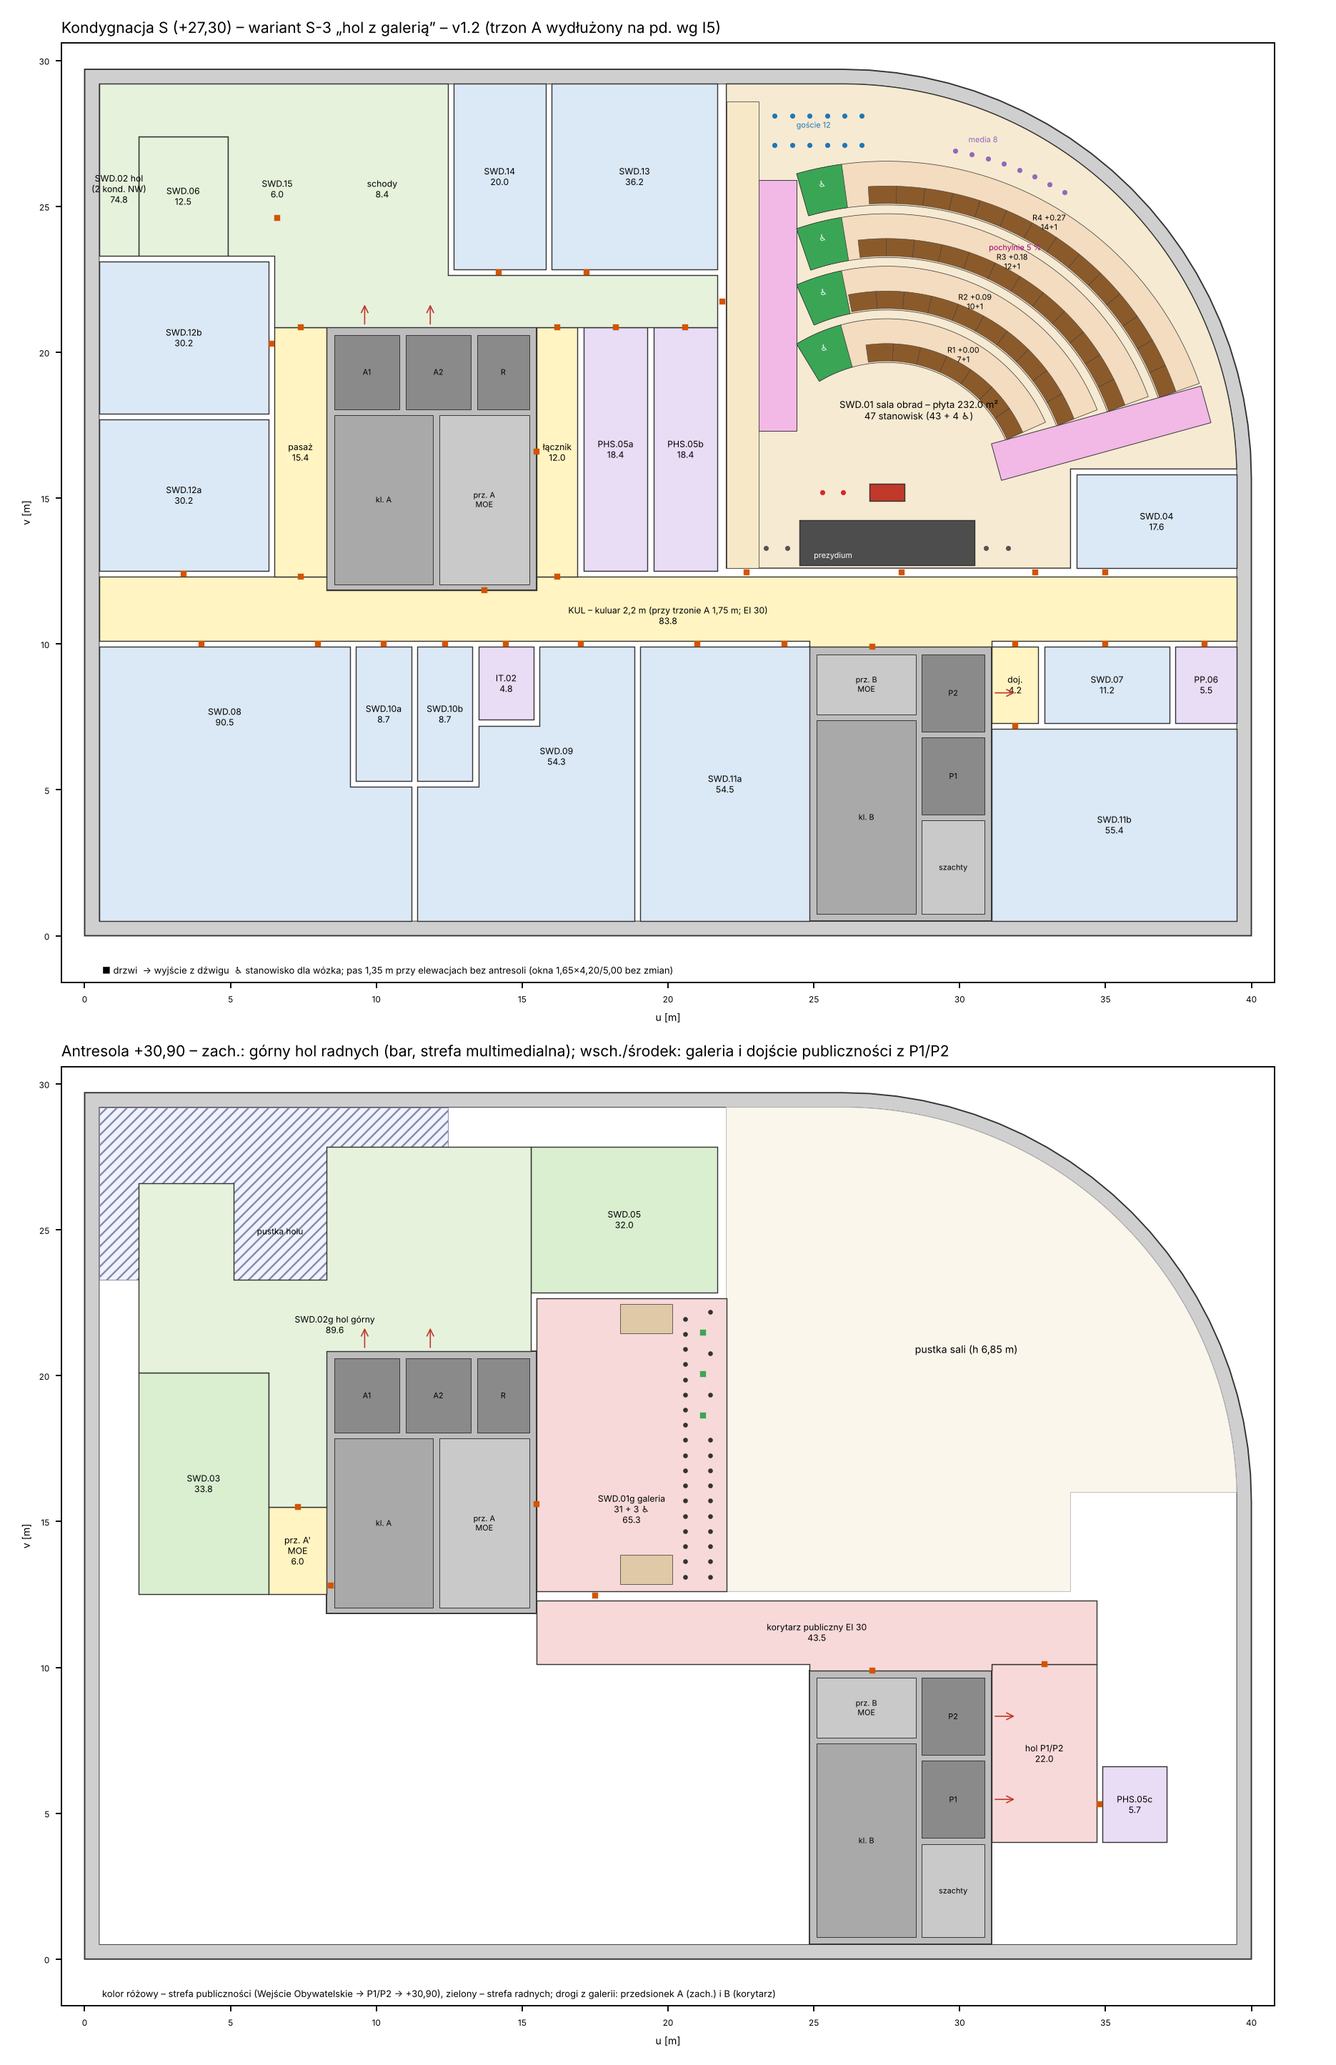
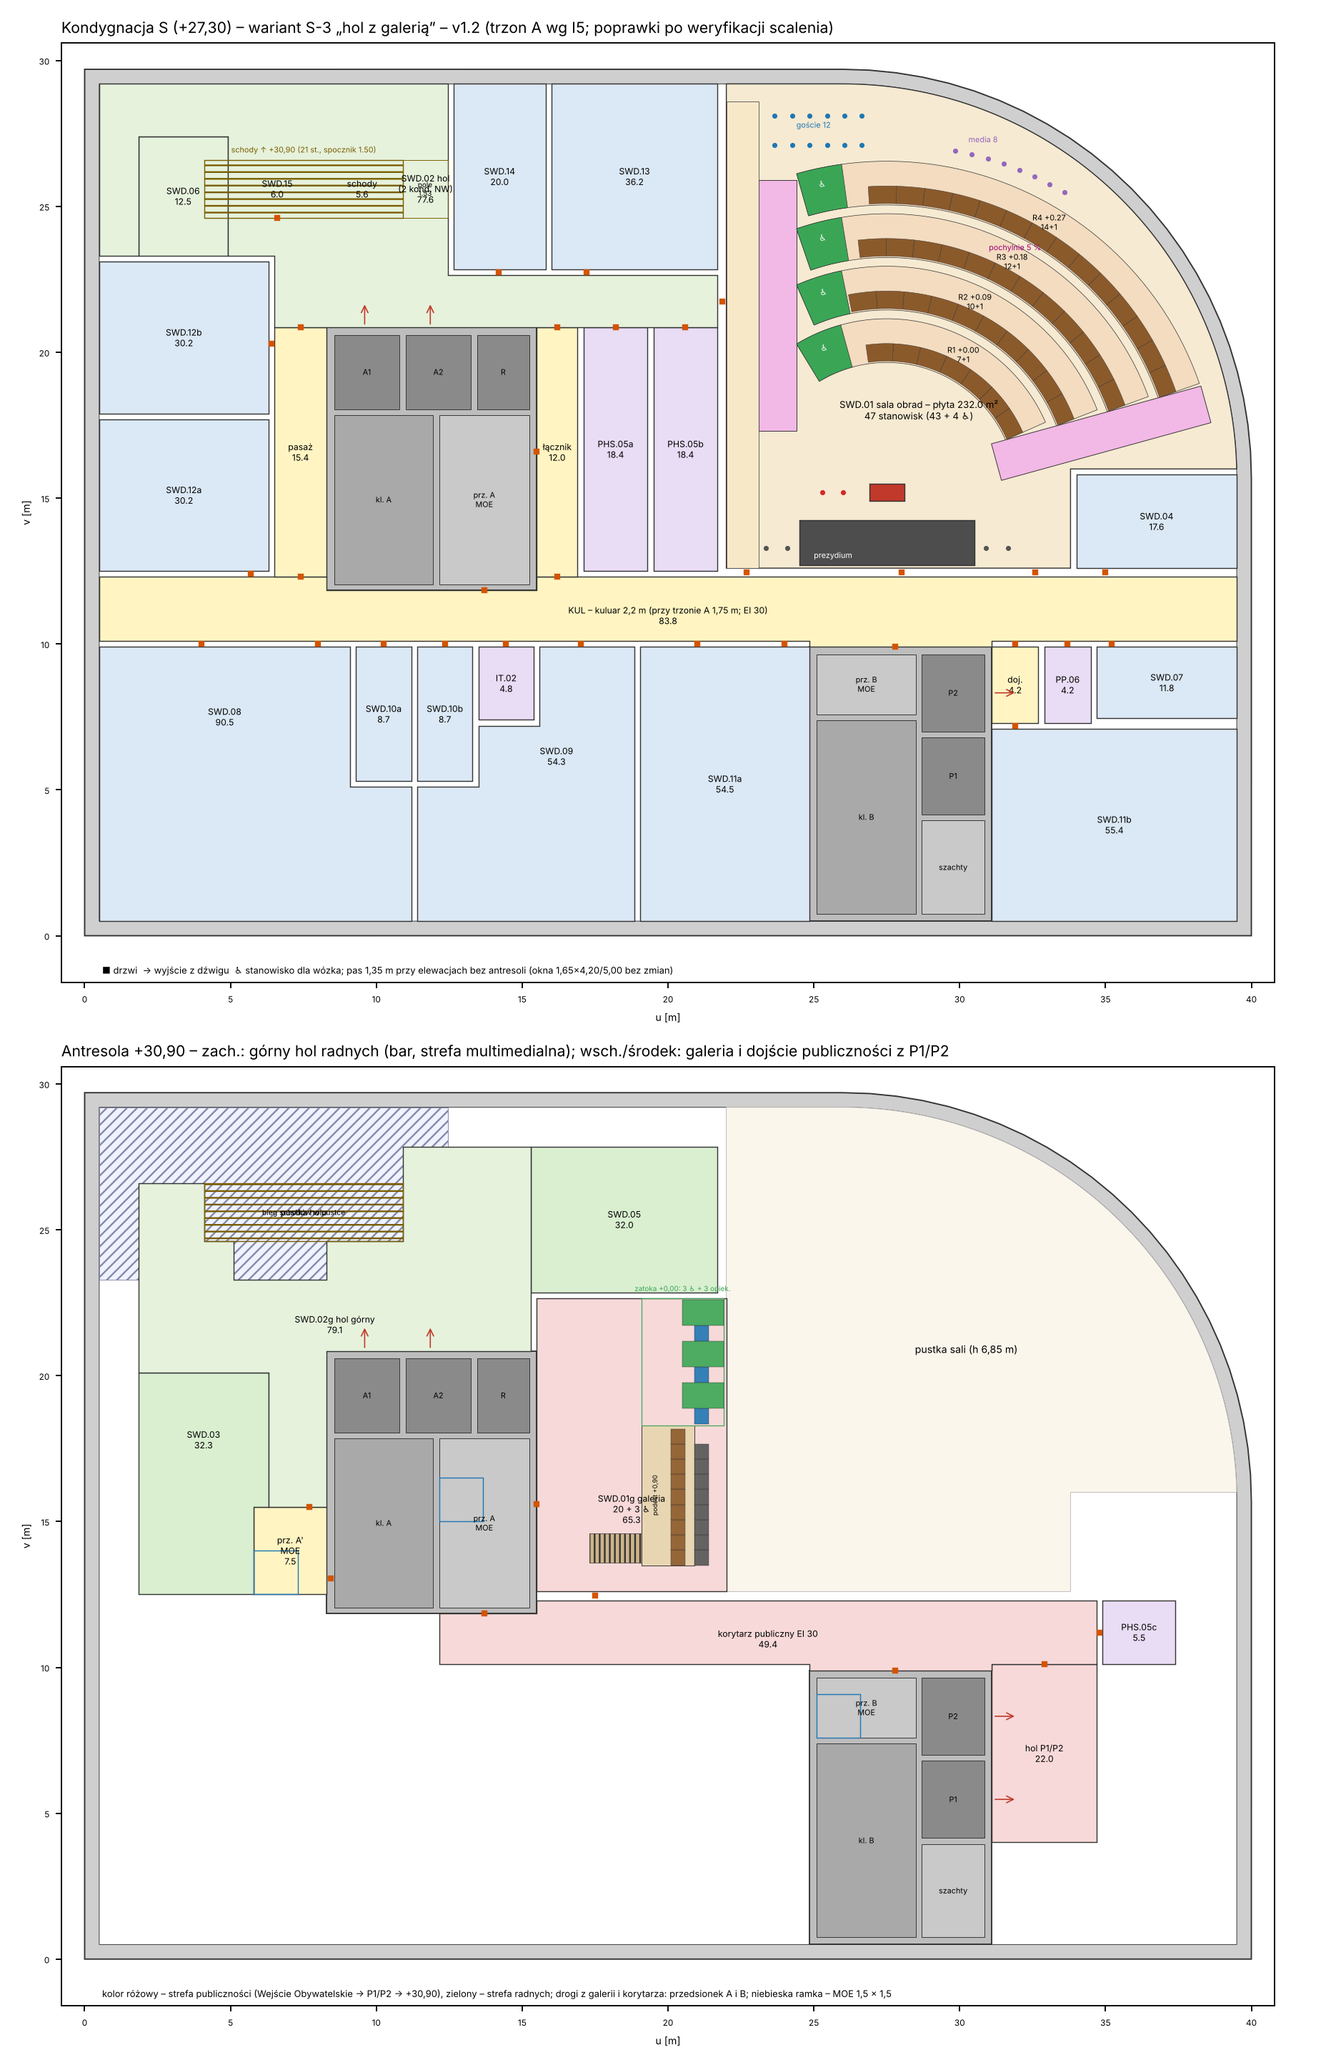
3D stage-2 tests (W1–W6, W9, W10), Citizens' Hall module; hall-axis plan defect logged for v1.2
Claude-Session: https://claude.ai/code/session_01ULAuXU15ZK9PB4XdqzfV5P

diff --git a/umwd/docs/20_koncepcja/_s2_rzut.py b/umwd/docs/20_koncepcja/_s2_rzut.py
@@ -16,6 +16,7 @@ import matplotlib  # noqa: E402
 matplotlib.use("Agg")
 import matplotlib.pyplot as plt  # noqa: E402
 from matplotlib.patches import Polygon as MPoly  # noqa: E402
+from shapely.geometry import box as box_  # noqa: E402
 
 IMG = os.path.join(os.path.dirname(os.path.abspath(__file__)), "img")
 os.makedirs(IMG, exist_ok=True)
@@ -69,7 +70,7 @@ def base(ax, title):
 
 fig, axs = plt.subplots(2, 1, figsize=(11.0, 17.0))
 ax = axs[0]
-base(ax, "Kondygnacja S (+27,30) – wariant S-3 „hol z galerią” – v1.2 (trzon A wydłużony na pd. wg I5)")
+base(ax, "Kondygnacja S (+27,30) – wariant S-3 „hol z galerią” – v1.2 (trzon A wg I5; poprawki po weryfikacji scalenia)")
 for k, g in S.items():
     draw(ax, g, COL[cat(k)], z=4)
     if k == "SWD.01":
@@ -106,6 +107,11 @@ for lift, pt, d, levels in M.LIFT_DOORS:
     if any(l.startswith("S") for l in levels):
         ax.annotate("", xy=(pt[0] + d[0] * 0.9, pt[1] + d[1] * 0.9), xytext=pt,
                     arrowprops=dict(arrowstyle="->", lw=0.7, color="#c0392b"), zorder=12)
+draw(ax, M.STAIR, "none", ec="#7a5c00", lw=0.6, z=7, hatch="---")          # cały bieg schodów (górny bieg nad szatnią)
+ax.text(sum(M.STAIR.bounds[0::2]) / 2, M.STAIR_V[1] + 0.25, f"schody ↑ +30,90 ({sum(M.STAIR_STEPS)} st., spocznik {M.STAIR_LAND:.2f})",
+        fontsize=4.6, ha="center", zorder=12, color="#7a5c00")
+draw(ax, box_(M.STAIR_FOOT_U, M.STAIR_V[0], M.HALL_E_WALL_U, M.STAIR_V[1]), "none", ec="#7a5c00", lw=0.4, z=7)
+ax.text(M.STAIR_FOOT_U + 0.75, sum(M.STAIR_V) / 2, f"pole\n{M.HALL_E_WALL_U - M.STAIR_FOOT_U:.2f}", fontsize=4.2, ha="center", va="center", zorder=12)
 ax.text(0.6, -1.3, "■ drzwi  → wyjście z dźwigu  ♿ stanowisko dla wózka; pas 1,35 m przy elewacjach bez antresoli (okna 1,65×4,20/5,00 bez zmian)",
         fontsize=5.5)
 
@@ -118,21 +124,33 @@ label(ax, S["SWD.01"], "pustka sali (h 6,85 m)", fs=6)
 for k, g in A.items():
     draw(ax, g, COL[cat(k)], z=5)
     nm = {"KW.A.01": "hol P1/P2", "KW.A.02": "korytarz publiczny EI 30", "KW.A.03": "prz. A'\nMOE",
-          "SWD.01g": "SWD.01g galeria\n31 + 3 ♿", "SWD.02g": "SWD.02g hol górny"}.get(k, k)
+          "SWD.01g": f"SWD.01g galeria\n{M.GAL_SEATS_N} + {M.GAL_WC_N} ♿", "SWD.02g": "SWD.02g hol górny"}.get(k, k)
     label(ax, g, f"{nm}\n{g.area:.1f}", dy=(-2.2 if k == "SWD.01g" else 0))
-for (u, v, h, t) in M.gallery_seats():
-    ax.plot(u, v, "s" if t == "wozek" else "o", ms=2.6 if t == "wozek" else 1.8,
-            color="#3aa655" if t == "wozek" else "#333", zorder=12)
+GLy = M.gallery_layout()
+draw(ax, M.GAL_PODEST, "#e8d6b3", lw=0.4, z=6)
+ax.text(M.GAL_PODEST.bounds[0] + 0.45, sum(M.GAL_PODEST.bounds[1::2]) / 2, "podest +0,90", fontsize=3.8, rotation=90,
+        ha="center", va="center", zorder=12)
 for g in M.GAL_STEPS:
-    draw(ax, g, "#e0c9a6", lw=0.3, z=6)
+    draw(ax, g, "#cdb38a", lw=0.3, z=6, hatch="||||")
+draw(ax, M.GAL_BAY, "none", ec="#3aa655", lw=0.5, z=7)
+for t, col in (("rzad1", "#555"), ("rzad2", "#8b5a2b"), ("opiekun", "#1f77b4"), ("wozek", "#3aa655")):
+    for (u, v, h, rect) in GLy[t]:
+        draw(ax, rect, col, lw=0.2, z=8, alpha=0.9)
+ax.text(20.5, 22.9, f"zatoka +0,00: {M.GAL_WC_N} ♿ + {M.GAL_COUNTS['opiekun']} opiek.", fontsize=4.2, ha="center", color="#3aa655", zorder=12)
+draw(ax, M.STAIR, "none", ec="#7a5c00", lw=0.6, z=7, hatch="---")
+ax.text(sum(M.STAIR.bounds[0::2]) / 2, sum(M.STAIR_V) / 2, "bieg schodów w pustce", fontsize=4.4, ha="center", va="center", zorder=12)
 for a_, b_, (u, v), w in M.DOORS_ANT:
     ax.plot(u, v, "s", ms=2.2, color="#d35400", zorder=12)
 for lift, pt, d, levels in M.LIFT_DOORS:
     if "ANT" in levels:
         ax.annotate("", xy=(pt[0] + d[0] * 0.9, pt[1] + d[1] * 0.9), xytext=pt,
                     arrowprops=dict(arrowstyle="->", lw=0.7, color="#c0392b"), zorder=12)
+for nm, (room, din, dout) in M.przedsionki().items():
+    r = M.moe_search(room, din, dout)
+    if r and "+30,90" in nm:
+        draw(ax, r["moe"], "none", ec="#1f77b4", lw=0.6, z=9)
 ax.text(0.6, -1.3, "kolor różowy – strefa publiczności (Wejście Obywatelskie → P1/P2 → +30,90), zielony – strefa radnych;"
-        " drogi z galerii: przedsionek A (zach.) i B (korytarz)", fontsize=5.5)
+        " drogi z galerii i korytarza: przedsionek A i B; niebieska ramka – MOE 1,5 × 1,5", fontsize=5.5)
 plt.tight_layout()
 out = os.path.join(IMG, "s2_plan.png")
 plt.savefig(out, dpi=170)
@@ -142,7 +160,7 @@ print("Zapisano", os.path.relpath(out, M.ROOT))
 # Przekrój w płaszczyźnie linii wzroku: galeria (rząd 1 i 2, v 20,0) → prezydium (miejsce skrajne zach.) i mówca
 fig, ax = plt.subplots(figsize=(10, 4.2))
 H = M.Z_ANT - M.Z_S
-v0 = 20.0
+v0 = 17.0
 seats = [(M.GAL_ROWS[0][1], H + M.EYE), (M.GAL_ROWS[1][1], H + M.GAL_ROWS[1][2] + M.EYE)]
 targets = [((M.F[0] - 2.25, 13.25), M.EYE, "prezydium (skrajne zach.)", "#c0392b"), ((M.F[0], M.F[1]), 1.60, "mówca 1,60", "#2c7fb8"),
            ((M.F[0] + 0.75, 13.25), M.EYE, "przewodniczący(a)", "#8e44ad")]
@@ -156,10 +174,12 @@ ax.add_patch(plt.Rectangle((-6.5, 0), 6.5 + 0.55, -0.35, fc="#bbb"))
 ax.add_patch(plt.Rectangle((-6.0, H - 0.3), 6.55, 0.3, fc="#999"))                        # strop antresoli
 ax.add_patch(plt.Rectangle((0.45, H), 0.10, M.GAL_CURB_H, fc="#555"))                      # cokół
 ax.add_patch(plt.Rectangle((0.45, H + M.GAL_CURB_H), 0.04, M.GAL_GLASS_H - M.GAL_CURB_H, fc="#9ecae1", alpha=0.7))  # szkło
-x_r2 = M.GAL_ROWS[1][1] - M.GAL_ROWS[0][1]
-ax.add_patch(plt.Rectangle((x_r2 - 0.45, H), 0.85, M.GAL_ROWS[1][2], fc="#d9c7a6"))    # podest rzędu 2 (+0,90)
+xp0, xp1 = M.GAL_PODEST.bounds[0] - M.GAL_ROWS[0][1], M.GAL_PODEST.bounds[2] - M.GAL_ROWS[0][1]
+ax.add_patch(plt.Rectangle((xp0, H), xp1 - xp0, M.GAL_PODEST_DZ, fc="#d9c7a6"))          # podest rzędu 2 (+0,90) z przejściem tylnym
+ax.add_patch(plt.Rectangle((xp1 - 0.03, H + M.GAL_PODEST_DZ), 0.03, M.GAL_PODEST_BAR_H, fc="#9ecae1", alpha=0.8))   # balustrada 0,70
+ax.text(xp0 + 0.05, H + M.GAL_PODEST_DZ + 0.08, "przejście tylne", fontsize=4.5)
 ax.add_patch(plt.Rectangle((0.25, 0), 0.30, H - 0.3, fc="#999"))                          # ściana sali pod galerią
-ax.text(-3.0, 1.6, "hol dźwigów A1/A2\n(pod galerią, h 3,30)", fontsize=6, ha="center")
+ax.text(-3.0, 1.6, "WC PHS.05 (pod galerią, h 3,30)", fontsize=6, ha="center")
 ax.plot([-6.5, 14], [M.H_SALA, M.H_SALA], "--", color="#777", lw=0.6)
 ax.text(10.5, M.H_SALA + 0.08, "spód kratownic +6,85", fontsize=6)
 for (su, sz), nm in zip(seats, ("rząd 1", "rząd 2")):
@@ -181,8 +201,8 @@ ax.text(-6.3, 0.08, "+27,30 sala", fontsize=6)
 ax.set_xlim(-6.5, 14)
 ax.set_ylim(-0.5, 7.2)
 ax.set_aspect("equal")
-ax.set_title("Przekrój rozwinięty wzdłuż linii wzroku z galerii (miejsca przy v 20,0) – szkło 1,10 m na cokole 0,20 m;"
-             " rząd 2 na +0,90", fontsize=8, loc="left")
+ax.set_title("Przekrój rozwinięty wzdłuż linii wzroku z galerii (miejsca przy v 17,0) – szkło 1,10 m na cokole 0,20 m;"
+             " rząd 2 na podeście +0,90 z balustradą 0,70 m", fontsize=8, loc="left")
 ax.tick_params(labelsize=6)
 plt.tight_layout()
 out2 = os.path.join(IMG, "s2_przekroj.png")

diff --git a/umwd/docs/20_koncepcja/_s2_sala.py b/umwd/docs/20_koncepcja/_s2_sala.py
@@ -75,6 +75,8 @@ print("  nachylenia odcinków:", [f"{s * 100:.2f} %" for s in slopes], "→ max"
       "✔" if max(slopes) <= 0.0500001 else "✗")
 print(f"  długość pochylni zach. {aisles['west_ramp'].bounds[3] - aisles['west_ramp'].bounds[1]:.2f} m (< 9 m bez spocznika "
       f"pośredniego: podesty rzędów pełnią rolę spoczników), poręcze obustronne 0,75 i 0,90 m, krawężnik 0,07 m")
+print(f"  przejścia-pochylnie {M.AISLE_W:.2f} m: płaszczyzna ruchu 1,20 m między krawężnikami, poręcze w rozstawie {M.AISLE_HANDRAIL:.2f} m"
+      f" w świetle ({'✔' if 1.0 <= M.AISLE_HANDRAIL <= 1.1 else '✗'} WT § 71 ust. 1: 1,0–1,1 m)")
 
 # -------------------------------------------------------------------------------------------------
 hr("[S2] Linie wzroku radnych (oczy 1,20 m nad podestem; cel: oczy prezydium 1,20 m / mówca 1,20–1,60 m)")
@@ -136,6 +138,9 @@ print("Rzędy na różnych promieniach – stanowiska sąsiednich rzędów nie l
 # -------------------------------------------------------------------------------------------------
 hr("[S3] Galeria publiczności – linie wzroku w przekroju (oczy 1,20 m; balustrada szklana 1,10 m na cokole 0,20 m)")
 gal = M.gallery_seats()
+print(f"Galeria (v1.2-fix): rząd 1 +0,00 – oko u {M.GAL_ROWS[0][1]:.2f}, {M.GAL_COUNTS['rzad1']} miejsc; zatoka +0,00 – {M.GAL_WC_N} miejsca"
+      f" dla wózków (oko u {M.GAL_PARAPET_U[0] - 0.70:.2f}) + {M.GAL_COUNTS['opiekun']} opiekunów; rząd 2 na podeście +0,90 – oko u"
+      f" {M.GAL_ROWS[1][1]:.2f}, {M.GAL_COUNTS['rzad2']} miejsc; razem {M.GAL_SEATS_N} + {M.GAL_WC_N}")
 z_curb = H_ANT + M.GAL_CURB_H              # wierzch cokołu pełnego = 3,80 nad posadzką sali
 z_glass = H_ANT + M.GAL_GLASS_H            # wierzch balustrady szklanej = 4,70
 heads = []                                 # głowy radnych (oko + 0,12)
@@ -177,6 +182,8 @@ def sight(eye, ze, T, zt, front_row):
 
 
 front = {2: (M.GAL_ROWS[0][1], H_ANT + M.GAL_ROWS[0][2] + M.EYE)}
+z_bar = H_ANT + M.GAL_PODEST_DZ + M.GAL_PODEST_BAR_H      # wierzch balustrady szklanej na krawędzi podestu (5,20 nad S)
+u_bar = M.GAL_R2_U[1]
 targets = {"prezydium – przewodniczący(a) i wiceprzew. (2 środkowe miejsca)": (PRES_PTS[1:3], M.EYE),
            "prezydium – miejsca skrajne": ([PRES_PTS[0], PRES_PTS[3]], M.EYE),
            "mówca przy mównicy siedzący / na wózku 1,20": ([F], 1.20),
@@ -184,6 +191,7 @@ targets = {"prezydium – przewodniczący(a) i wiceprzew. (2 środkowe miejsca)"
 G3 = {}
 for nm, (TT, zt) in targets.items():
     curb, cs, clear_between, n_tot, glass_n, hmin = 9, [], 0, 0, 0, 9
+    bar_min, bar_glass = 9, 0
     for (u, v, h, t) in gal:
         row = 1 if abs(u - M.GAL_ROWS[0][1]) < 0.3 else 2
         if t == "wozek":
@@ -191,6 +199,10 @@ for nm, (TT, zt) in targets.items():
         for T in TT:
             ze = h
             cc, gl, c, dmin, hh = sight((u, v), ze, T, zt, front.get(row))
+            if row == 2:
+                hb, _ = h_at_u((u, v), ze, T, zt, u_bar)
+                bar_min = min(bar_min, hb - z_bar)
+                bar_glass += hb < z_bar
             curb = min(curb, cc)
             hmin = min(hmin, hh)
             glass_n += gl
@@ -200,12 +212,14 @@ for nm, (TT, zt) in targets.items():
                 if c >= 0.06 or dmin >= 0.20:
                     clear_between += 1
     n2 = len(cs)
-    G3[nm] = (curb, min(cs), sum(1 for c in cs if c >= 0.06), clear_between, n2, hmin)
+    G3[nm] = (curb, min(cs), sum(1 for c in cs if c >= 0.06), clear_between, n2, hmin, bar_min, bar_glass)
     print(f"  {nm}:")
     print(f"     zapas nad cokołem 0,20 m min {curb * 1000:.0f} mm (linia przez szkło antyrefleksyjne w {glass_n}/{n_tot} przypadków);"
           f" nad głowami radnych ≥ {hmin:.2f} m")
     print(f"     rząd 2 nad rzędem 1: C min {min(cs) * 1000:.0f} mm, C ≥ 60 mm: {sum(1 for c in cs if c >= 0.06)}/{n2};"
           f" C ≥ 60 mm lub linia między głowami (≥ 0,20 m od osi głowy): {clear_between}/{n2}")
+    print(f"     rząd 2 nad balustradą krawędzi podestu ({M.GAL_PODEST_BAR_H:.2f} m, u {u_bar:.2f}): zapas min {bar_min * 1000:.0f} mm"
+          + (f"; linia przez szkło w {bar_glass}/{n2} przypadków" if bar_glass else " – linia nad balustradą we wszystkich przypadkach"))
 ang = []
 for (u, v, h, t) in gal:
     ang.append(math.degrees(math.atan2(abs(u - PRES_C[0]), v - PRES_C[1])))
@@ -326,12 +340,13 @@ for rin in (None, 12.0, 11.0, 10.2):
     n, par = max_rows_seats(rin)
     lab = "bez galerii w łuku" if rin is None else f"galeria w łuku, krawędź R {rin:.1f} m (głęb. {13.5 - rin:.1f} m)"
     print(f"  {lab:45s} → maks. {n:2d} stanowisk {'✔' if n >= 44 else '✗ < 44'}  (F_u, R1) = {par}")
-need = 31 * M.GAL_SEAT_W + 3 * M.GAL_WC_W + 2 * 1.2
+need = M.GAL_SEATS_N * M.GAL_SEAT_W + M.GAL_WC_N * M.GAL_WC_W + 2 * 1.2
 arc_len = math.radians(90 - 10) * (13.5 - 0.6)
-print(f"  Galeria 1-rzędowa w łuku (głęb. 1,5 m): front {arc_len:.1f} m < potrzebne {need:.1f} m (31 miejsc + 3 wózki + 2 wejścia);"
-      " miejsce dla wózka 1,40 m + przejście za rzędem 1,20 m wymaga głęb. ≥ 2,6 m → ≤ 38 stanowisk; dojście z P1/P2"
-      " prowadziłoby nad końcami rzędów (poufność) ✗")
-print("Galeria pd. (v1.0) przykrywa prezydium – wykluczona (I1). Galeria zach. nad holem dźwigów – przyjęta.")
+print(f"  Galeria 1-rzędowa w łuku (głęb. 1,5 m): front {arc_len:.1f} m {'<' if arc_len < need else '≥'} potrzebne {need:.1f} m"
+      f" ({M.GAL_SEATS_N} miejsc + {M.GAL_WC_N} wózki + 2 wejścia), ale miejsce dla wózka 1,40 m + przejście za rzędem 1,20 m"
+      " wymaga głęb. ≥ 2,6 m → ≤ 38 stanowisk radnych < 44; dojście z P1/P2 prowadziłoby nad końcami rzędów (poufność) ✗")
+print("Galeria pd. (v1.0) przykrywa prezydium – wykluczona (I1). Galeria zach. (nad WC K/M i łącznikiem wsch., między trzonem A"
+      " a salą) – przyjęta.")
 
 # -------------------------------------------------------------------------------------------------
 hr("[S7] Prezydium, mównica, PJM – dostępność")

diff --git a/umwd/docs/20_koncepcja/_s2_model.py b/umwd/docs/20_koncepcja/_s2_model.py
@@ -495,7 +495,7 @@ def poly_list_en(g, nd=3):
 # Galeria publiczności (+30,90) – v1.2-fix: przekrój 2-rzędowy z zatoką +0,00 dla wózków (pn.) i przejściem tylnym rzędu 2
 # ------------------------------------------------------------------------------------------------
 # Przekrój (wsch. → zach.): balustrada (lico u 22,00; szkło 21,90–22,00) | rząd 1 +0,00 u 20,90–21,90 (siedzisko 0,50 +
-# przejście 0,45 przed kolanami) | podest +0,90 u 19,10–20,90 (miejsca rzędu 2 u 20,00–20,90, przejście tylne 0,90 m) | foyer +0,00.
+# przejście 0,45 przed kolanami) | podest +0,90 u 19,10–20,90 (miejsca rzędu 2 u 20,10–20,90, przejście tylne 1,00 m) | foyer +0,00.
 # Wzdłuż (pd. → pn.): przejście +0,00 do rzędu 1 (0,90) | podest i rząd 1 | zatoka +0,00: 3 × (opiekun + wózek) przy balustradzie.
 GAL = box(15.50, 12.60, 22.00, 22.65)
 GAL_PARAPET_U = (21.90, 22.00)    # balustrada szklana 1,10 m (prześwit ≤ 0,12) na cokole pełnym 0,20 m – lico u 22,00
@@ -508,9 +508,9 @@ GAL_KNEE = 0.45                   # przejście przed kolanami rzędu 1 (WT § 26
 GAL_WC_W, GAL_WC_D = 0.90, 1.40   # miejsce dla wózka (M.13)
 GAL_EYE_OFF = 0.30                # oko siedzącego przed linią oparcia
 GAL_R1_U = (20.90, 21.90)         # rząd 1 (+0,00)
-GAL_R2_U = (20.00, 20.90)         # miejsca rzędu 2 na podeście
+GAL_R2_U = (20.10, 20.90)         # miejsca rzędu 2 na podeście: siedzisko 0,50 + miejsce na nogi 0,30 do krawędzi
 GAL_PODEST_DZ = 0.90
-GAL_PODEST = box(19.10, 13.50, 20.90, 18.30)            # podest +0,90 (przejście tylne u 19,10–20,00)
+GAL_PODEST = box(19.10, 13.50, 20.90, 18.30)            # podest +0,90 (przejście tylne 1,00 m u 19,10–20,10)
 GAL_S_PASS = box(19.10, 12.60, GAL_PARAPET_U[0], 13.50)  # przejście +0,00 foyer → rząd 1 (0,90 m)
 GAL_STEPS = [box(17.30, 13.60, 19.10, 14.60)]           # 6 × 0,15 / 0,30 z foyer na przejście tylne podestu
 GAL_BAY = box(19.10, 18.30, GAL_PARAPET_U[0], 22.65)    # zatoka +0,00 (z foyer bez stopni)
@@ -570,7 +570,7 @@ GAL_ROWS = [  # (nr, u oka, podest wzgl. +30,90, v0, v1, układ) – do linii wz
      f"+0,00: {GAL_COUNTS['rzad1']} miejsc (dostęp przejściem 0,90 od pd. i przejściem 0,45 przed kolanami) + zatoka pn.:"
      f" {GAL_WC_N} miejsca dla wózków 0,90 × 1,40 z {GAL_COUNTS['opiekun']} miejscami opiekunów"),
     (2, GAL_R2_U[0] + GAL_EYE_OFF, GAL_PODEST_DZ, GAL_PODEST.bounds[1], GAL_PODEST.bounds[3],
-     f"podest +0,90: {GAL_COUNTS['rzad2']} miejsc × 0,52 m z przejściem tylnym 0,90 m; 6 stopni 0,15 × 0,30 z foyer;"
+     f"podest +0,90: {GAL_COUNTS['rzad2']} miejsc × 0,52 m z przejściem tylnym 1,00 m; 6 stopni 0,15 × 0,30 z foyer;"
      f" krawędzie podestu – balustrady (przód szkło 0,70 m)"),
 ]
 PROG["SWD.01g"] = (f"Galeria publiczności (część SWD.01): rząd 1 +0,00 – {GAL_COUNTS['rzad1']} miejsc, rząd 2 +0,90 –"

diff --git a/umwd/docs/90_audyt/do_przeliczenia_po_v11.md b/umwd/docs/90_audyt/do_przeliczenia_po_v11.md
@@ -41,3 +41,6 @@
 - [ ] Fryz wklęsły 0,15 × 0,15 m – potwierdzić; dopisać do JSON: pochwyt 1,10, kaseta ZIP 0,18, ΔU 0,020, strop glin QpB 101,8–103,4, spadek dachu skrzydła 2,8 % (kalenica w osi traktu 15,00).
 ### Agent rzutów
 - [ ] budynek.json: 3 okna na licu S-W segmentu (kond. P, 1, 3, 4) – sprzeczne z elewacją (żaluzje agregatu/trafo/dry-coolera, pełny parter); uzgodnić rzuty z elewacją Sg.
+
+## Z raportu agenta 3D (etap 2, 17.11 ok. 06:45) – PRIORYTET dla rzutów v1.2
+- [ ] **Hala Obywatelska – przekątna oś Brama Mostowa → drzwi ogrodowe musi mieć ≥ 6,3 m wolnej szerokości na całej długości** (tak twierdzi opis i koncepcja). Teraz: oś mija narożnik SW.02 o 0,45 m (prześwit 4,6 m), między SW.06 a trzonami 3,9 m, narożnik PHS.04 na osi, koniec osi (84,32; 43,12) w toaletach PHS.04; drzwi ogrodowe przyjęte prowizorycznie w środku ściany ogrodowej (u 15,9–18,3). Poprawić model_pomieszczen (parter) tak, by oś była wolna, a drzwi ogrodowe leżały w osi; potem kamera W6 wraca na oś.
